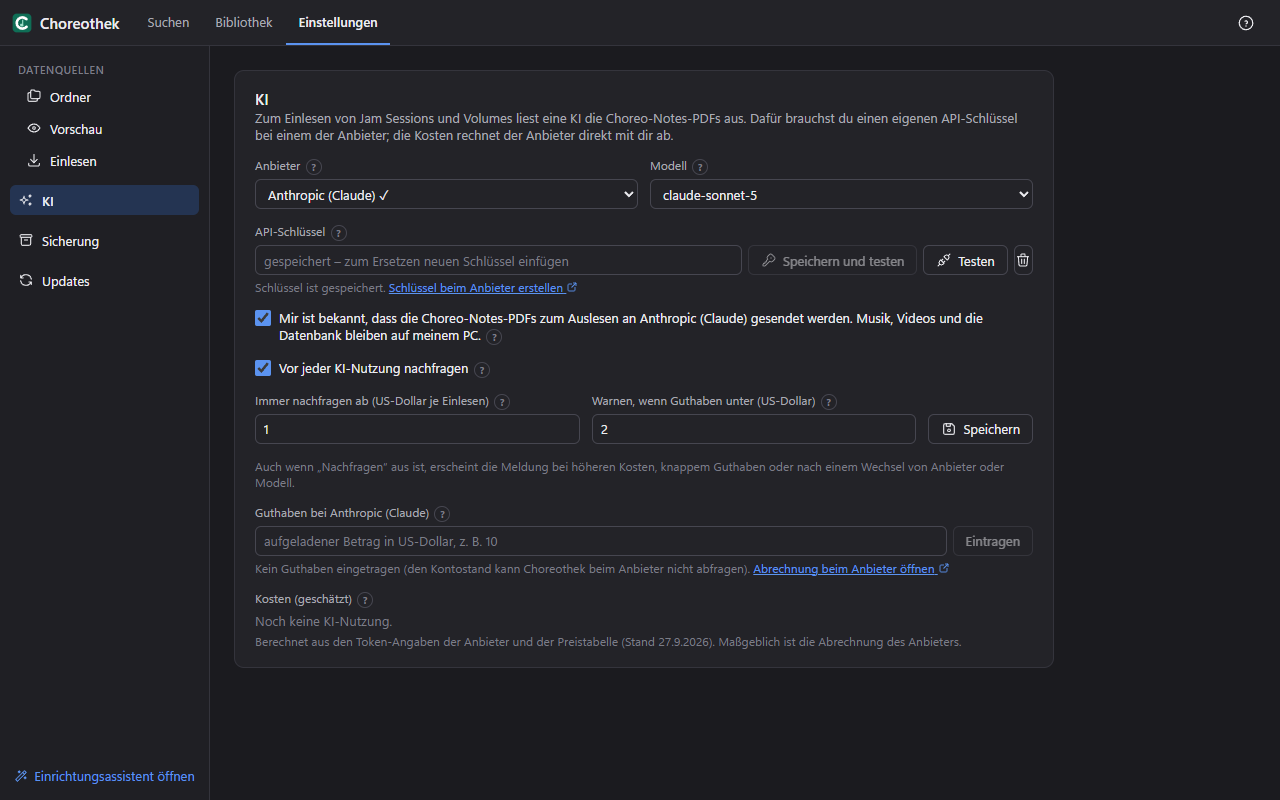
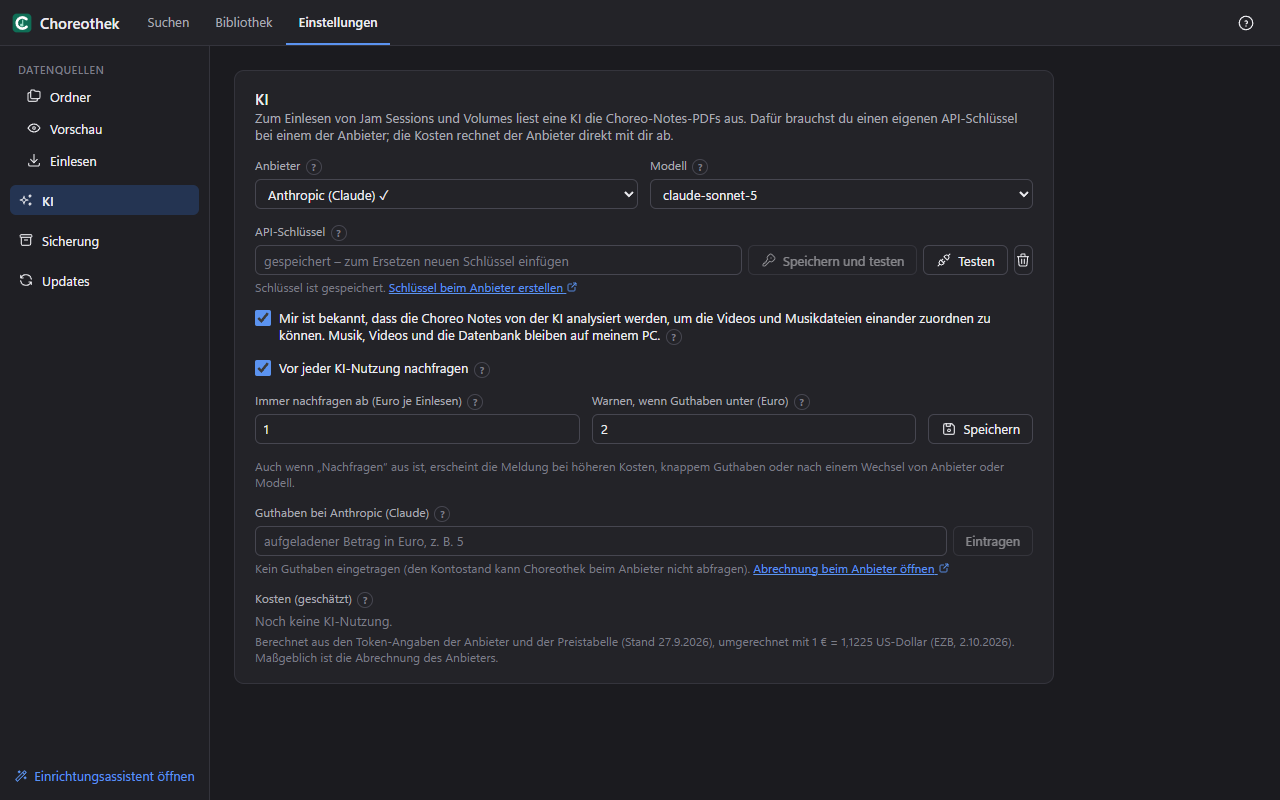
Webseite: Euro statt Dollar (Anleitung, App-Bild KI)

diff --git a/website/pages/anleitung.html b/website/pages/anleitung.html
@@ -139,7 +139,8 @@
     <ul>
       <li><strong>Meldung vor jeder KI-Nutzung:</strong> Anbieter, Anzahl PDFs und Seiten, geschätzte Kosten. Erst mit <em>KI nutzen und einlesen</em> geht etwas hinaus.</li>
       <li><strong>Nicht mehr fragen:</strong> Schaltest du die Meldung ab, kommt sie trotzdem, wenn die Kosten über deiner Grenze liegen, das Guthaben knapp wird oder du Anbieter bzw. Modell gewechselt hast.</li>
-      <li><strong>Guthaben eintragen:</strong> Trag ein, wie viel du beim Anbieter aufgeladen hast. Choreothek zieht die geschätzten Kosten ab und warnt, wenn es knapp wird. Den echten Kontostand kann Choreothek nicht abfragen.</li>
+      <li><strong>Guthaben eintragen:</strong> Trag in Euro ein, wie viel du beim Anbieter aufgeladen hast. Choreothek zieht die geschätzten Kosten ab und warnt, wenn es knapp wird. Den echten Kontostand kann Choreothek nicht abfragen. Anthropic und OpenAI rechnen in US-Dollar ab – trag dort den ungefähren Euro-Betrag ein.</li>
+      <li><strong>Euro statt Dollar:</strong> Die Anbieter nennen ihre Preise in US-Dollar. Choreothek rechnet sie mit einem festen Kurs in Euro um; der Kurs steht unter der Kostenübersicht.</li>
       <li><strong>Kostenübersicht:</strong> geschätzte Kosten je Monat. Maßgeblich ist immer die Abrechnung des Anbieters – der Knopf <em>Abrechnung beim Anbieter öffnen</em> führt dorthin.</li>
     </ul>
     <div class="note"><p><strong>Tipp:</strong> Lade beim Anbieter nur einen kleinen Betrag auf oder setze dort ein Ausgabenlimit. Dann kann nie mehr verbraucht werden, als du willst.</p></div>
